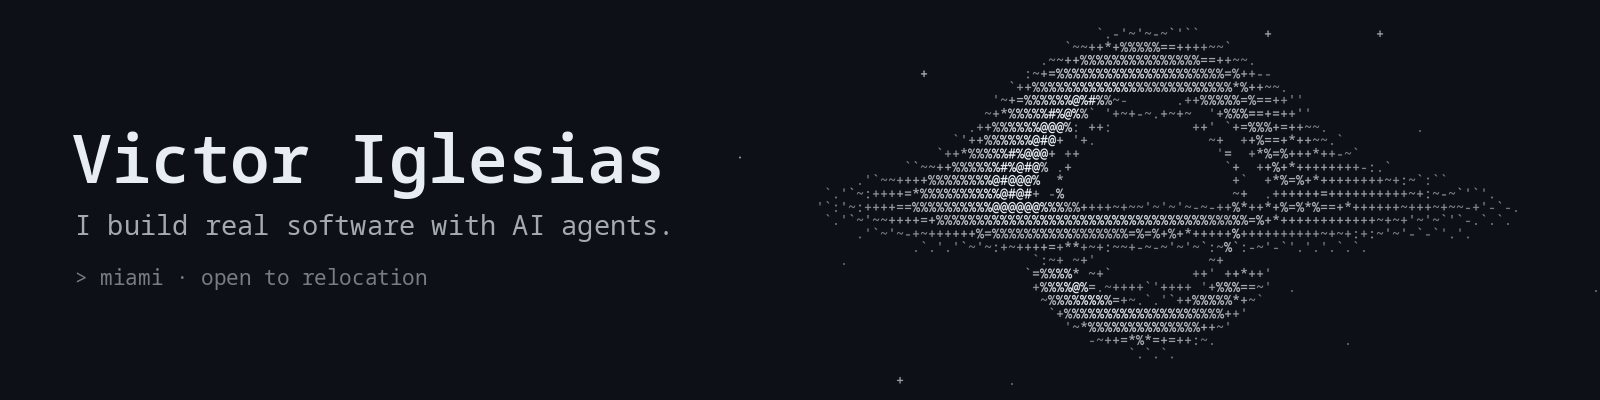
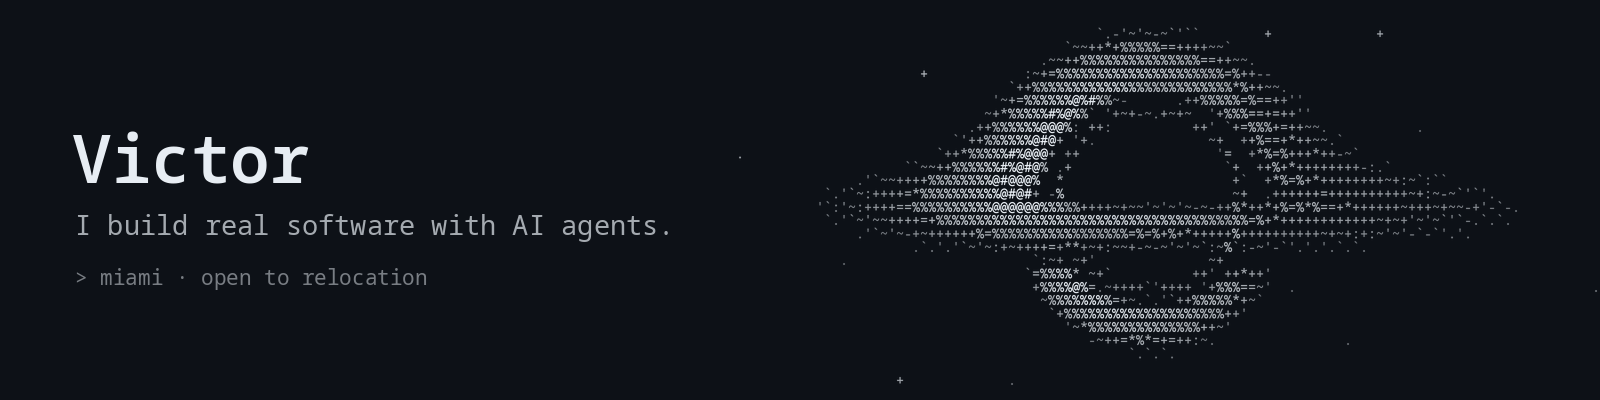
Use first name only in the header

Changed region(s): [[0.2188, 0.33, 0.4375, 0.51]]

diff --git a/README.md b/README.md
@@ -1,4 +1,4 @@
-<picture><source media="(prefers-color-scheme: dark)" srcset="assets/header-dark.png"><img src="assets/header-light.png" width="100%" alt="Victor Iglesias. I build real software with AI agents."></picture>
+<picture><source media="(prefers-color-scheme: dark)" srcset="assets/header-dark.png"><img src="assets/header-light.png" width="100%" alt="Victor. I build real software with AI agents."></picture>
 
 <pre>
 <b>live</b>
